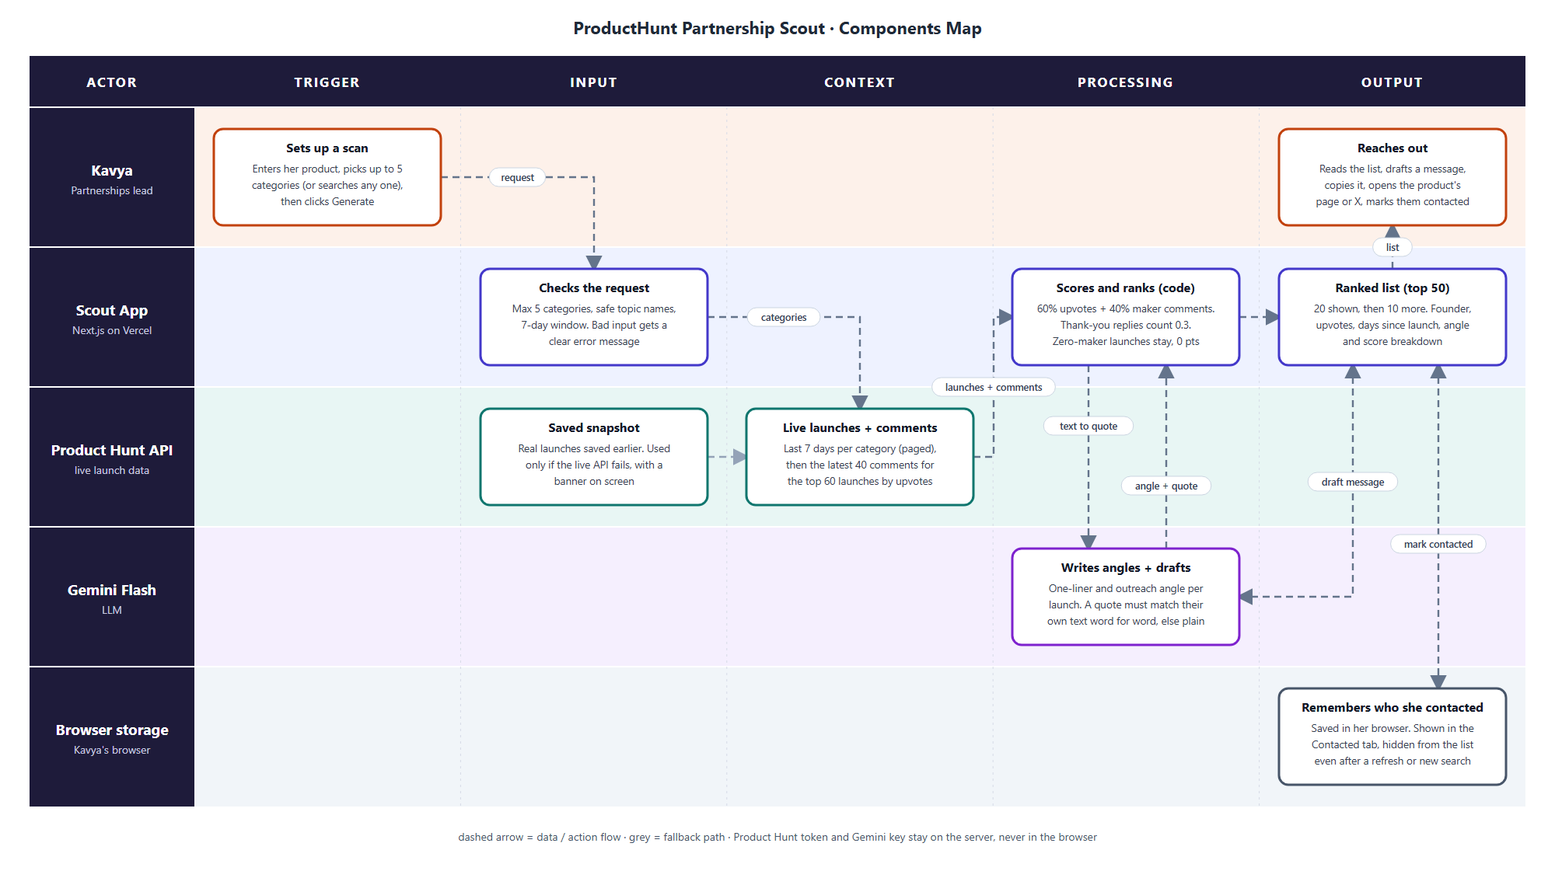
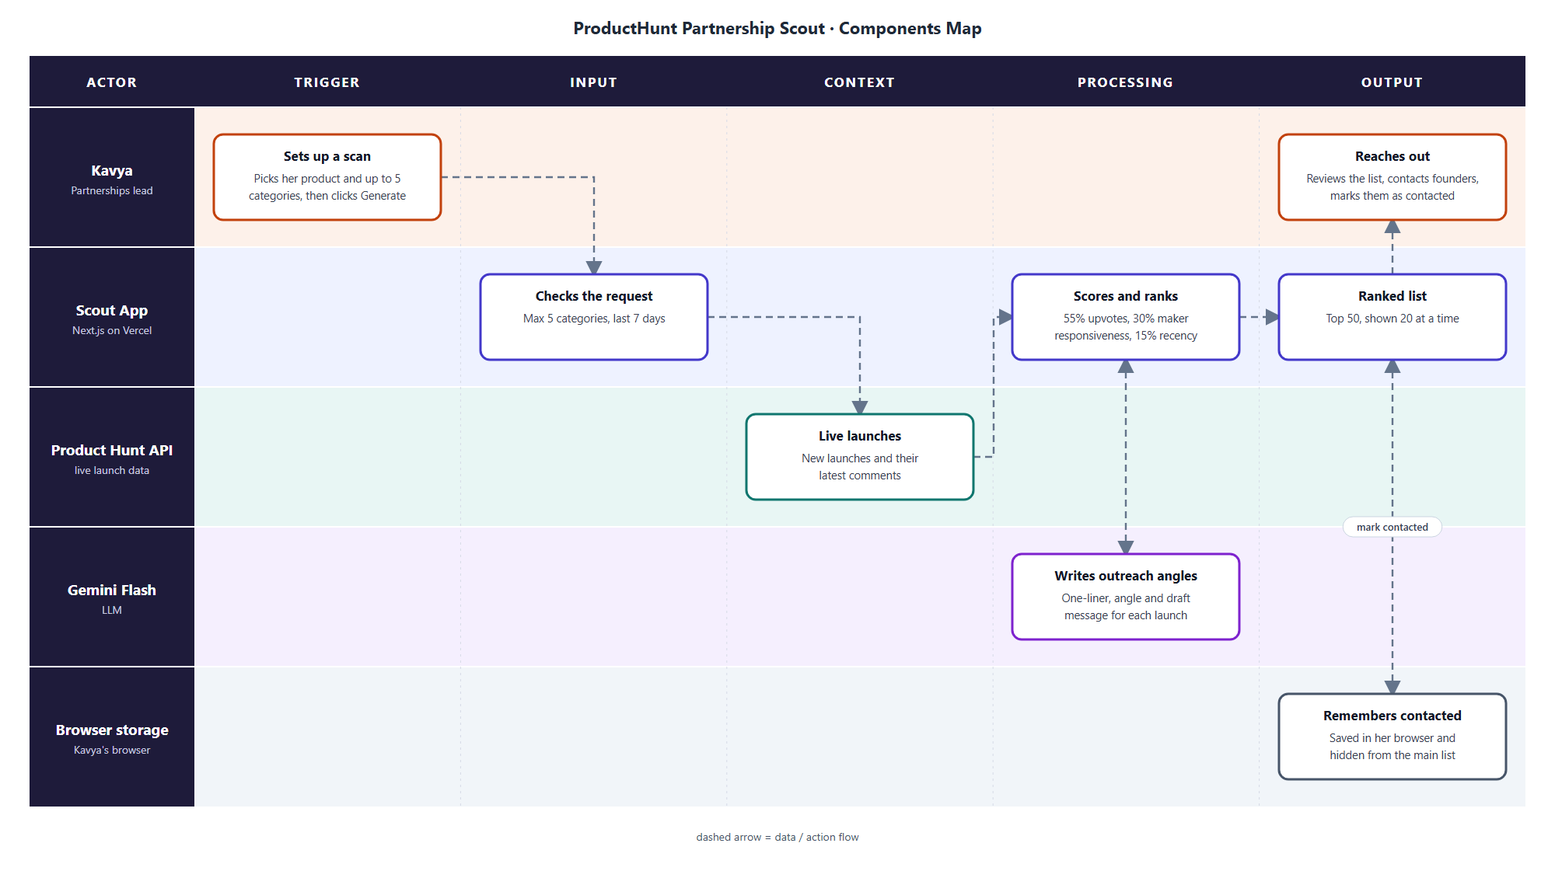
Score = 55% upvotes + 30% maker responsiveness + 15% recency; simplified Components Map
- Recency points fall linearly from 15 (launched now) to 0 at the 7-day edge
- Score breakdown and explanatory text show all three parts
- Components Map simplified: no snapshot box, no arrow captions except 'mark contacted'

diff --git a/docs/components-map.html b/docs/components-map.html
@@ -1,6 +1,5 @@
 <!doctype html><html><head><meta charset="utf-8"><title>Components Map</title><style>body{margin:0;background:#fff}svg{display:block;max-width:100%;height:auto}</style></head><body><svg xmlns="http://www.w3.org/2000/svg" viewBox="0 0 2000 1130" width="2000" height="1130" font-family="Segoe UI, Helvetica, Arial, sans-serif">
-<defs><marker id="ah" viewBox="0 0 10 10" refX="8" refY="5" markerWidth="9" markerHeight="9" orient="auto-start-reverse"><path d="M0,0 L10,5 L0,10 z" fill="#64748b"/></marker>
-<marker id="ahf" viewBox="0 0 10 10" refX="8" refY="5" markerWidth="9" markerHeight="9" orient="auto-start-reverse"><path d="M0,0 L10,5 L0,10 z" fill="#94a3b8"/></marker></defs>
+<defs><marker id="ah" viewBox="0 0 10 10" refX="8" refY="5" markerWidth="9" markerHeight="9" orient="auto-start-reverse"><path d="M0,0 L10,5 L0,10 z" fill="#64748b"/></marker></defs>
 <rect width="2000" height="1130" fill="#ffffff"/>
 <text x="1000" y="44" text-anchor="middle" font-size="22" font-weight="700" fill="#1f2937">ProductHunt Partnership Scout · Components Map</text>
 <rect x="38" y="72" width="1924" height="66" fill="#1e1b3a"/>
@@ -39,76 +38,44 @@
 <line x1="934.8" x2="934.8" y1="138" y2="1038" stroke="#d6dae6" stroke-dasharray="3 5"/>
 <line x1="1277.1999999999998" x2="1277.1999999999998" y1="138" y2="1038" stroke="#d6dae6" stroke-dasharray="3 5"/>
 <line x1="1619.6" x2="1619.6" y1="138" y2="1038" stroke="#d6dae6" stroke-dasharray="3 5"/>
-<path d="M567,228 L764,228 L764,346" fill="none" stroke="#64748b" stroke-width="2.4" stroke-dasharray="9 6" marker-end="url(#ah)"/>
-<path d="M910,408 L1106,408 L1106,526" fill="none" stroke="#64748b" stroke-width="2.4" stroke-dasharray="9 6" marker-end="url(#ah)"/>
-<path d="M910,588 L960,588" fill="none" stroke="#94a3b8" stroke-width="2.4" stroke-dasharray="9 6" marker-end="url(#ahf)"/>
+<path d="M567,228 L764,228 L764,353" fill="none" stroke="#64748b" stroke-width="2.4" stroke-dasharray="9 6" marker-end="url(#ah)"/>
+<path d="M910,408 L1106,408 L1106,533" fill="none" stroke="#64748b" stroke-width="2.4" stroke-dasharray="9 6" marker-end="url(#ah)"/>
 <path d="M1252,588 L1278,588 L1278,408 L1302,408" fill="none" stroke="#64748b" stroke-width="2.4" stroke-dasharray="9 6" marker-end="url(#ah)"/>
-<path d="M1400,470 L1400,706" fill="none" stroke="#64748b" stroke-width="2.4" stroke-dasharray="9 6" marker-end="url(#ah)"/>
-<path d="M1500,706 L1500,470" fill="none" stroke="#64748b" stroke-width="2.4" stroke-dasharray="9 6" marker-end="url(#ah)"/>
+<path d="M1448,463 L1448,713" fill="none" stroke="#64748b" stroke-width="2.4" stroke-dasharray="9 6" marker-end="url(#ah)" marker-start="url(#ah)"/>
 <path d="M1594,408 L1645,408" fill="none" stroke="#64748b" stroke-width="2.4" stroke-dasharray="9 6" marker-end="url(#ah)"/>
-<path d="M1791,346 L1791,290" fill="none" stroke="#64748b" stroke-width="2.4" stroke-dasharray="9 6" marker-end="url(#ah)"/>
-<path d="M1740,470 L1740,768 L1594,768" fill="none" stroke="#64748b" stroke-width="2.4" stroke-dasharray="9 6" marker-end="url(#ah)" marker-start="url(#ah)"/>
-<path d="M1850,470 L1850,886" fill="none" stroke="#64748b" stroke-width="2.4" stroke-dasharray="9 6" marker-end="url(#ah)" marker-start="url(#ah)"/>
-<rect x="275" y="166" width="292" height="124" rx="12" fill="#fff" stroke="#c2410c" stroke-width="3"/>
-<text x="421" y="196" text-anchor="middle" font-size="16" font-weight="700" fill="#111827">Sets up a scan</text>
-<text x="421" y="222" text-anchor="middle" font-size="13.5" fill="#374151">Enters her product, picks up to 5</text>
-<text x="421" y="243" text-anchor="middle" font-size="13.5" fill="#374151">categories (or searches any one),</text>
-<text x="421" y="264" text-anchor="middle" font-size="13.5" fill="#374151">then clicks Generate</text>
-<rect x="1645" y="166" width="292" height="124" rx="12" fill="#fff" stroke="#c2410c" stroke-width="3"/>
-<text x="1791" y="196" text-anchor="middle" font-size="16" font-weight="700" fill="#111827">Reaches out</text>
-<text x="1791" y="222" text-anchor="middle" font-size="13.5" fill="#374151">Reads the list, drafts a message,</text>
-<text x="1791" y="243" text-anchor="middle" font-size="13.5" fill="#374151">copies it, opens the product's</text>
-<text x="1791" y="264" text-anchor="middle" font-size="13.5" fill="#374151">page or X, marks them contacted</text>
-<rect x="618" y="346" width="292" height="124" rx="12" fill="#fff" stroke="#4338ca" stroke-width="3"/>
-<text x="764" y="376" text-anchor="middle" font-size="16" font-weight="700" fill="#111827">Checks the request</text>
-<text x="764" y="402" text-anchor="middle" font-size="13.5" fill="#374151">Max 5 categories, safe topic names,</text>
-<text x="764" y="423" text-anchor="middle" font-size="13.5" fill="#374151">7-day window. Bad input gets a</text>
-<text x="764" y="444" text-anchor="middle" font-size="13.5" fill="#374151">clear error message</text>
-<rect x="1302" y="346" width="292" height="124" rx="12" fill="#fff" stroke="#4338ca" stroke-width="3"/>
-<text x="1448" y="376" text-anchor="middle" font-size="16" font-weight="700" fill="#111827">Scores and ranks (code)</text>
-<text x="1448" y="402" text-anchor="middle" font-size="13.5" fill="#374151">60% upvotes + 40% maker comments.</text>
-<text x="1448" y="423" text-anchor="middle" font-size="13.5" fill="#374151">Thank-you replies count 0.3.</text>
-<text x="1448" y="444" text-anchor="middle" font-size="13.5" fill="#374151">Zero-maker launches stay, 0 pts</text>
-<rect x="1645" y="346" width="292" height="124" rx="12" fill="#fff" stroke="#4338ca" stroke-width="3"/>
-<text x="1791" y="376" text-anchor="middle" font-size="16" font-weight="700" fill="#111827">Ranked list (top 50)</text>
-<text x="1791" y="402" text-anchor="middle" font-size="13.5" fill="#374151">20 shown, then 10 more. Founder,</text>
-<text x="1791" y="423" text-anchor="middle" font-size="13.5" fill="#374151">upvotes, days since launch, angle</text>
-<text x="1791" y="444" text-anchor="middle" font-size="13.5" fill="#374151">and score breakdown</text>
-<rect x="618" y="526" width="292" height="124" rx="12" fill="#fff" stroke="#0f766e" stroke-width="3"/>
-<text x="764" y="556" text-anchor="middle" font-size="16" font-weight="700" fill="#111827">Saved snapshot</text>
-<text x="764" y="582" text-anchor="middle" font-size="13.5" fill="#374151">Real launches saved earlier. Used</text>
-<text x="764" y="603" text-anchor="middle" font-size="13.5" fill="#374151">only if the live API fails, with a</text>
-<text x="764" y="624" text-anchor="middle" font-size="13.5" fill="#374151">banner on screen</text>
-<rect x="960" y="526" width="292" height="124" rx="12" fill="#fff" stroke="#0f766e" stroke-width="3"/>
-<text x="1106" y="556" text-anchor="middle" font-size="16" font-weight="700" fill="#111827">Live launches + comments</text>
-<text x="1106" y="582" text-anchor="middle" font-size="13.5" fill="#374151">Last 7 days per category (paged),</text>
-<text x="1106" y="603" text-anchor="middle" font-size="13.5" fill="#374151">then the latest 40 comments for</text>
-<text x="1106" y="624" text-anchor="middle" font-size="13.5" fill="#374151">the top 60 launches by upvotes</text>
-<rect x="1302" y="706" width="292" height="124" rx="12" fill="#fff" stroke="#7e22ce" stroke-width="3"/>
-<text x="1448" y="736" text-anchor="middle" font-size="16" font-weight="700" fill="#111827">Writes angles + drafts</text>
-<text x="1448" y="762" text-anchor="middle" font-size="13.5" fill="#374151">One-liner and outreach angle per</text>
-<text x="1448" y="783" text-anchor="middle" font-size="13.5" fill="#374151">launch. A quote must match their</text>
-<text x="1448" y="804" text-anchor="middle" font-size="13.5" fill="#374151">own text word for word, else plain</text>
-<rect x="1645" y="886" width="292" height="124" rx="12" fill="#fff" stroke="#475569" stroke-width="3"/>
-<text x="1791" y="916" text-anchor="middle" font-size="16" font-weight="700" fill="#111827">Remembers who she contacted</text>
-<text x="1791" y="942" text-anchor="middle" font-size="13.5" fill="#374151">Saved in her browser. Shown in the</text>
-<text x="1791" y="963" text-anchor="middle" font-size="13.5" fill="#374151">Contacted tab, hidden from the list</text>
-<text x="1791" y="984" text-anchor="middle" font-size="13.5" fill="#374151">even after a refresh or new search</text>
-<rect x="629.3" y="216" width="72.4" height="24" rx="12" fill="#fff" stroke="#cbd5e1"/>
-<text x="665.5" y="232.5" text-anchor="middle" font-size="12.5" font-weight="600" fill="#334155">request</text>
-<rect x="961" y="396" width="94" height="24" rx="12" fill="#fff" stroke="#cbd5e1"/>
-<text x="1008" y="412.5" text-anchor="middle" font-size="12.5" font-weight="600" fill="#334155">categories</text>
-<rect x="1198.6" y="486" width="158.8" height="24" rx="12" fill="#fff" stroke="#cbd5e1"/>
-<text x="1278" y="502.5" text-anchor="middle" font-size="12.5" font-weight="600" fill="#334155">launches + comments</text>
-<rect x="1342.2" y="536" width="115.60000000000001" height="24" rx="12" fill="#fff" stroke="#cbd5e1"/>
-<text x="1400" y="552.5" text-anchor="middle" font-size="12.5" font-weight="600" fill="#334155">text to quote</text>
-<rect x="1442.2" y="613" width="115.60000000000001" height="24" rx="12" fill="#fff" stroke="#cbd5e1"/>
-<text x="1500" y="629.5" text-anchor="middle" font-size="12.5" font-weight="600" fill="#334155">angle + quote</text>
-<rect x="1765.6" y="306" width="50.8" height="24" rx="12" fill="#fff" stroke="#cbd5e1"/>
-<text x="1791" y="322.5" text-anchor="middle" font-size="12.5" font-weight="600" fill="#334155">list</text>
-<rect x="1682.2" y="608" width="115.60000000000001" height="24" rx="12" fill="#fff" stroke="#cbd5e1"/>
-<text x="1740" y="624.5" text-anchor="middle" font-size="12.5" font-weight="600" fill="#334155">draft message</text>
-<rect x="1788.6" y="688" width="122.8" height="24" rx="12" fill="#fff" stroke="#cbd5e1"/>
-<text x="1850" y="704.5" text-anchor="middle" font-size="12.5" font-weight="600" fill="#334155">mark contacted</text>
-<text x="1000" y="1082" text-anchor="middle" font-size="14" fill="#475569">dashed arrow = data / action flow  ·  grey = fallback path  ·  Product Hunt token and Gemini key stay on the server, never in the browser</text>
+<path d="M1791,353 L1791,283" fill="none" stroke="#64748b" stroke-width="2.4" stroke-dasharray="9 6" marker-end="url(#ah)"/>
+<path d="M1791,463 L1791,893" fill="none" stroke="#64748b" stroke-width="2.4" stroke-dasharray="9 6" marker-end="url(#ah)" marker-start="url(#ah)"/>
+<rect x="275" y="173" width="292" height="110" rx="12" fill="#fff" stroke="#c2410c" stroke-width="3"/>
+<text x="421" y="207" text-anchor="middle" font-size="17" font-weight="700" fill="#111827">Sets up a scan</text>
+<text x="421" y="235" text-anchor="middle" font-size="14.5" fill="#374151">Picks her product and up to 5</text>
+<text x="421" y="257" text-anchor="middle" font-size="14.5" fill="#374151">categories, then clicks Generate</text>
+<rect x="1645" y="173" width="292" height="110" rx="12" fill="#fff" stroke="#c2410c" stroke-width="3"/>
+<text x="1791" y="207" text-anchor="middle" font-size="17" font-weight="700" fill="#111827">Reaches out</text>
+<text x="1791" y="235" text-anchor="middle" font-size="14.5" fill="#374151">Reviews the list, contacts founders,</text>
+<text x="1791" y="257" text-anchor="middle" font-size="14.5" fill="#374151">marks them as contacted</text>
+<rect x="618" y="353" width="292" height="110" rx="12" fill="#fff" stroke="#4338ca" stroke-width="3"/>
+<text x="764" y="387" text-anchor="middle" font-size="17" font-weight="700" fill="#111827">Checks the request</text>
+<text x="764" y="415" text-anchor="middle" font-size="14.5" fill="#374151">Max 5 categories, last 7 days</text>
+<rect x="1302" y="353" width="292" height="110" rx="12" fill="#fff" stroke="#4338ca" stroke-width="3"/>
+<text x="1448" y="387" text-anchor="middle" font-size="17" font-weight="700" fill="#111827">Scores and ranks</text>
+<text x="1448" y="415" text-anchor="middle" font-size="14.5" fill="#374151">55% upvotes, 30% maker</text>
+<text x="1448" y="437" text-anchor="middle" font-size="14.5" fill="#374151">responsiveness, 15% recency</text>
+<rect x="1645" y="353" width="292" height="110" rx="12" fill="#fff" stroke="#4338ca" stroke-width="3"/>
+<text x="1791" y="387" text-anchor="middle" font-size="17" font-weight="700" fill="#111827">Ranked list</text>
+<text x="1791" y="415" text-anchor="middle" font-size="14.5" fill="#374151">Top 50, shown 20 at a time</text>
+<rect x="960" y="533" width="292" height="110" rx="12" fill="#fff" stroke="#0f766e" stroke-width="3"/>
+<text x="1106" y="567" text-anchor="middle" font-size="17" font-weight="700" fill="#111827">Live launches</text>
+<text x="1106" y="595" text-anchor="middle" font-size="14.5" fill="#374151">New launches and their</text>
+<text x="1106" y="617" text-anchor="middle" font-size="14.5" fill="#374151">latest comments</text>
+<rect x="1302" y="713" width="292" height="110" rx="12" fill="#fff" stroke="#7e22ce" stroke-width="3"/>
+<text x="1448" y="747" text-anchor="middle" font-size="17" font-weight="700" fill="#111827">Writes outreach angles</text>
+<text x="1448" y="775" text-anchor="middle" font-size="14.5" fill="#374151">One-liner, angle and draft</text>
+<text x="1448" y="797" text-anchor="middle" font-size="14.5" fill="#374151">message for each launch</text>
+<rect x="1645" y="893" width="292" height="110" rx="12" fill="#fff" stroke="#475569" stroke-width="3"/>
+<text x="1791" y="927" text-anchor="middle" font-size="17" font-weight="700" fill="#111827">Remembers contacted</text>
+<text x="1791" y="955" text-anchor="middle" font-size="14.5" fill="#374151">Saved in her browser and</text>
+<text x="1791" y="977" text-anchor="middle" font-size="14.5" fill="#374151">hidden from the main list</text>
+<rect x="1727.2" y="665" width="127.60000000000001" height="26" rx="13" fill="#fff" stroke="#cbd5e1"/>
+<text x="1791" y="683" text-anchor="middle" font-size="13" font-weight="600" fill="#334155">mark contacted</text>
+<text x="1000" y="1082" text-anchor="middle" font-size="14" fill="#475569">dashed arrow = data / action flow</text>
 </svg></body></html>

diff --git a/app/page.tsx b/app/page.tsx
@@ -1,7 +1,7 @@
 "use client";
 
 import { Fragment, useEffect, useRef, useState } from "react";
-import { DEFAULT_PROFILE, DEFAULT_TOPICS, INITIAL_SHOWN, MAX_TOPICS, SHOW_MORE_STEP, TOPICS } from "@/lib/config";
+import { DEFAULT_PROFILE, DEFAULT_TOPICS, INITIAL_SHOWN, MAX_TOPICS, SHOW_MORE_STEP, TOPICS, WEIGHT_MAKER, WEIGHT_RECENCY, WEIGHT_UPVOTES } from "@/lib/config";
 import type { EnrichInput, Evidence, ScoredProduct, ScoutResponse } from "@/lib/types";
 
 type Topic = { slug: string; label: string };
@@ -20,6 +20,7 @@ type ContactedEntry = {
 
 const QUICK: Topic[] = TOPICS.map((t) => ({ slug: t.slug, label: t.label }));
 const STORE_KEY = "ph-scout-contacted-v1";
+const pct = (w: number) => Math.round(w * 100);
 
 function csvCell(v: string | number) {
   return `"${String(v).replace(/"/g, '""')}"`;
@@ -436,11 +437,11 @@ export default function Home() {
                               <td />
                               <td colSpan={7}>
                                 <div className="breakdown">
-                                  <strong>Score {p.score}</strong> = upvotes <strong>{b.upvotePts}</strong> / 60 + maker responsiveness <strong>{b.makerPts}</strong> / 40
+                                  <strong>Score {p.score}</strong> = upvotes <strong>{b.upvotePts}</strong> / {pct(WEIGHT_UPVOTES)} + maker responsiveness <strong>{b.makerPts}</strong> / {pct(WEIGHT_MAKER)} + recency <strong>{b.recencyPts}</strong> / {pct(WEIGHT_RECENCY)}
                                   <div className="tag">
                                     Upvotes: {p.upvotes}. Maker comments: {p.makerComments}
                                     {p.makerComments > 0 ? ` (${b.weightedComments} weighted; short thank-yous count 0.3)` : " (none found in the latest 40 comments, so 0 points)"}.
-                                    Each part is scaled against the top launch in this list.
+                                    Upvotes and maker points are scaled against the top launch in this list. Recency: launched {p.daysSinceLaunch === 0 ? "today" : `${p.daysSinceLaunch} day(s) ago`}, newer earns more.
                                   </div>
                                 </div>
                               </td>
@@ -495,9 +496,9 @@ export default function Home() {
       <details className="how">
         <summary>How the score works</summary>
         <p>
-          Score (0-100) = 60% upvotes + 40% maker responsiveness, each log-scaled against the highest in the current list. Maker responsiveness is the number of
+          Score (0-100) = 55% upvotes + 30% maker responsiveness + 15% recency. Upvotes and maker points are log-scaled against the highest in the current list; recency falls from full points for a launch today to none at 7 days. Maker responsiveness is the number of
           comments written by the product&apos;s makers (latest 40 comments); short thank-you replies still count, at 0.3 of a full comment. A launch with no maker
-          comments is never removed, it just earns 0 of the 40 maker points. Click any score to see its breakdown. Outreach angles quote the product&apos;s own text
+          comments is never removed, it just earns 0 of the 30 maker points. Click any score to see its breakdown. Outreach angles quote the product&apos;s own text
           only when the quote can be found word-for-word in it; otherwise a plain angle is shown. Data comes from the Product Hunt API; angles and drafts are written by Gemini Flash.
         </p>
       </details>

diff --git a/scripts/test-scoring.ts b/scripts/test-scoring.ts
@@ -17,19 +17,30 @@ assert.equal(makerCommentWeight("Great question - yes, we sync with Slack and Li
 // edge cases: empty list, zero votes, zero maker comments
 assert.deepEqual(scorePosts([]), []);
 const zero = scorePosts([mk("a", 0, [])]);
-assert.equal(zero[0].score, 0);
+assert.equal(zero[0].upvotePts, 0);
+assert.equal(zero[0].makerPts, 0);
+assert.equal(zero[0].score, zero[0].recencyPts); // only recency points remain
 
 // more votes + more responsive team ranks higher; breakdown adds up and respects the 60/40 caps
 const r = scorePosts([mk("low", 10, ["ok"]), mk("high", 200, ["Answering: yes we support SSO via Okta and SAML.", "Thanks!"])]);
 assert.equal(r[0].post.id, "high");
 assert.ok(r[0].score <= 100 && r[1].score >= 0);
-assert.ok(r[0].upvotePts <= 60 && r[0].makerPts <= 40);
-assert.ok(Math.abs(r[0].score - (r[0].upvotePts + r[0].makerPts)) < 0.11);
+assert.ok(r[0].upvotePts <= 55 && r[0].makerPts <= 30 && r[0].recencyPts <= 15);
+assert.ok(Math.abs(r[0].score - (r[0].upvotePts + r[0].makerPts + r[0].recencyPts)) < 0.11);
 
 // zero maker comments are never excluded: still ranked, with 0 maker points shown explicitly
 const none = scorePosts([mk("quiet", 500, []), mk("chatty", 5, ["We answer everything here, ask away about pricing or roadmap."])]);
 assert.equal(none.length, 2);
 assert.equal(none.find((x) => x.post.id === "quiet")!.makerPts, 0);
+
+// recency: with identical votes and comments, the newer launch ranks higher; launches at the window edge earn 0 recency points
+const day = 86_400_000, nowMs = Date.now();
+const old = { ...mk("old", 100, ["A real answer about pricing and the roadmap."]), launchedAt: new Date(nowMs - 6.9 * day).toISOString() };
+const fresh = { ...mk("fresh", 100, ["A real answer about pricing and the roadmap."]), launchedAt: new Date(nowMs - 0.1 * day).toISOString() };
+const rr = scorePosts([old, fresh], nowMs, 7);
+assert.equal(rr[0].post.id, "fresh");
+assert.ok(rr[0].recencyPts > 14 && rr[1].recencyPts < 1.5);
+assert.equal(scorePosts([{ ...old, launchedAt: new Date(nowMs - 9 * day).toISOString() }], nowMs, 7)[0].recencyPts, 0);
 
 // evidence guard: only verbatim quotes from the product's own text are accepted
 const input: EnrichInput = {

diff --git a/lib/scoring.ts b/lib/scoring.ts
@@ -1,4 +1,4 @@
-import { GENERIC_COMMENT_WEIGHT, WEIGHT_MAKER, WEIGHT_UPVOTES } from "./config";
+import { GENERIC_COMMENT_WEIGHT, WEIGHT_MAKER, WEIGHT_RECENCY, WEIGHT_UPVOTES, WINDOW_DAYS } from "./config";
 import type { ContactLinks, EnrichInput, PHComment, PHPost } from "./types";
 
 const THANKS = /\b(thanks?|thank you|thx|ty|appreciate|cheers|welcome|glad you)\b/i;
@@ -35,11 +35,18 @@ export interface ScoreRow {
   weightedComments: number;
   upvotePts: number; // out of 100 * WEIGHT_UPVOTES
   makerPts: number; // out of 100 * WEIGHT_MAKER
+  recencyPts: number; // out of 100 * WEIGHT_RECENCY
   score: number;
 }
 
-/** score = upvote points + maker points, each = weight x (log-scaled value / cohort max). */
-export function scorePosts(posts: PHPost[]): ScoreRow[] {
+/** 1 for a launch from this instant, falling linearly to 0 at the edge of the window. */
+export function recencyFactor(launchedAt: string, now: number, windowDays: number): number {
+  const ageDays = (now - new Date(launchedAt).getTime()) / 86_400_000;
+  return Math.max(0, Math.min(1, 1 - ageDays / windowDays));
+}
+
+/** score = upvote pts + maker pts (each weight x log-scaled value / cohort max) + recency pts (weight x recency factor). */
+export function scorePosts(posts: PHPost[], now = Date.now(), windowDays = WINDOW_DAYS): ScoreRow[] {
   const rows = posts.map((post) => {
     const m = makerStats(post);
     return { post, makerComments: m.count, weightedComments: m.weighted };
@@ -50,7 +57,8 @@ export function scorePosts(posts: PHPost[]): ScoreRow[] {
     .map((r) => {
       const upvotePts = round1(100 * WEIGHT_UPVOTES * norm(r.post.votesCount, maxVotes));
       const makerPts = round1(100 * WEIGHT_MAKER * norm(r.weightedComments, maxMaker));
-      return { ...r, upvotePts, makerPts, score: round1(upvotePts + makerPts) };
+      const recencyPts = round1(100 * WEIGHT_RECENCY * recencyFactor(r.post.launchedAt, now, windowDays));
+      return { ...r, upvotePts, makerPts, recencyPts, score: round1(upvotePts + makerPts + recencyPts) };
     })
     .sort((a, b) => b.score - a.score || b.post.votesCount - a.post.votesCount);
 }

diff --git a/lib/scout.ts b/lib/scout.ts
@@ -32,7 +32,7 @@ export async function runScout(req: ScoutRequest): Promise<ScoutResponse> {
   const inWindow = posts.filter((p) => daysSince(p.launchedAt, now) <= req.days);
   if (inWindow.length === 0) warnings.push("No launches matched these categories in the selected window.");
 
-  const ranked = scorePosts(inWindow).slice(0, MAX_RESULTS);
+  const ranked = scorePosts(inWindow, now, req.days).slice(0, MAX_RESULTS);
   const inputs = ranked.map((r) => buildEnrichInput(r.post));
 
   // Angles are written up front for the first batch; the rest are requested on demand ("Show more").
@@ -63,7 +63,7 @@ export async function runScout(req: ScoutRequest): Promise<ScoutResponse> {
         daysSinceLaunch: daysSince(r.post.launchedAt, now),
         makerComments: r.makerComments,
         score: r.score,
-        breakdown: { upvotePts: r.upvotePts, makerPts: r.makerPts, weightedComments: Math.round(r.weightedComments * 10) / 10 },
+        breakdown: { upvotePts: r.upvotePts, makerPts: r.makerPts, recencyPts: r.recencyPts, weightedComments: Math.round(r.weightedComments * 10) / 10 },
         outreachAngle: e?.angle ?? "",
         evidence: e?.evidence,
         angleSource: e ? e.source : "pending",

diff --git a/lib/config.ts b/lib/config.ts
@@ -30,8 +30,9 @@ export const INITIAL_SHOWN = 20; // rows shown first
 export const SHOW_MORE_STEP = 10;
 export const INITIAL_ENRICH = 20; // products that get Gemini angles up front
 
-// Score = 60% upvotes + 40% maker responsiveness (the two signals in the brief).
-export const WEIGHT_UPVOTES = 0.6;
-export const WEIGHT_MAKER = 0.4;
+// Score = 55% upvotes + 30% maker responsiveness + 15% recency (newer launches are more time-sensitive).
+export const WEIGHT_UPVOTES = 0.55;
+export const WEIGHT_MAKER = 0.3;
+export const WEIGHT_RECENCY = 0.15;
 // A maker comment that is just a thank-you / generic reply still counts, at this weight.
 export const GENERIC_COMMENT_WEIGHT = 0.3;

diff --git a/lib/types.ts b/lib/types.ts
@@ -54,8 +54,9 @@ export interface Evidence {
 }
 
 export interface ScoreBreakdown {
-  upvotePts: number; // out of 60
-  makerPts: number; // out of 40
+  upvotePts: number; // out of 55
+  makerPts: number; // out of 30
+  recencyPts: number; // out of 15
   weightedComments: number;
 }
 

diff --git a/README.md b/README.md
@@ -4,7 +4,7 @@ Ranks Product Hunt launches from the last 7 days (in chosen categories) by upvot
 
 ## How it works
 1. `POST /api/scout` pulls launches per category from the Product Hunt GraphQL API (votes, comments, makers).
-2. Score (0-100) = 60% upvotes + 40% maker responsiveness, each log-scaled against the cohort max. Every maker comment counts; short thank-you replies count at 0.3.
+2. Score (0-100) = 55% upvotes + 30% maker responsiveness + 15% recency. Upvotes and maker points are log-scaled against the cohort max; every maker comment counts, and short thank-you replies count at 0.3.
 3. One batched Gemini call writes the one-liner and outreach angle for each product (retries and falls back across Flash models, then to a template).
 4. If Product Hunt is unreachable, the app serves a bundled real-data snapshot (`data/snapshot.json`) with a banner.
 
